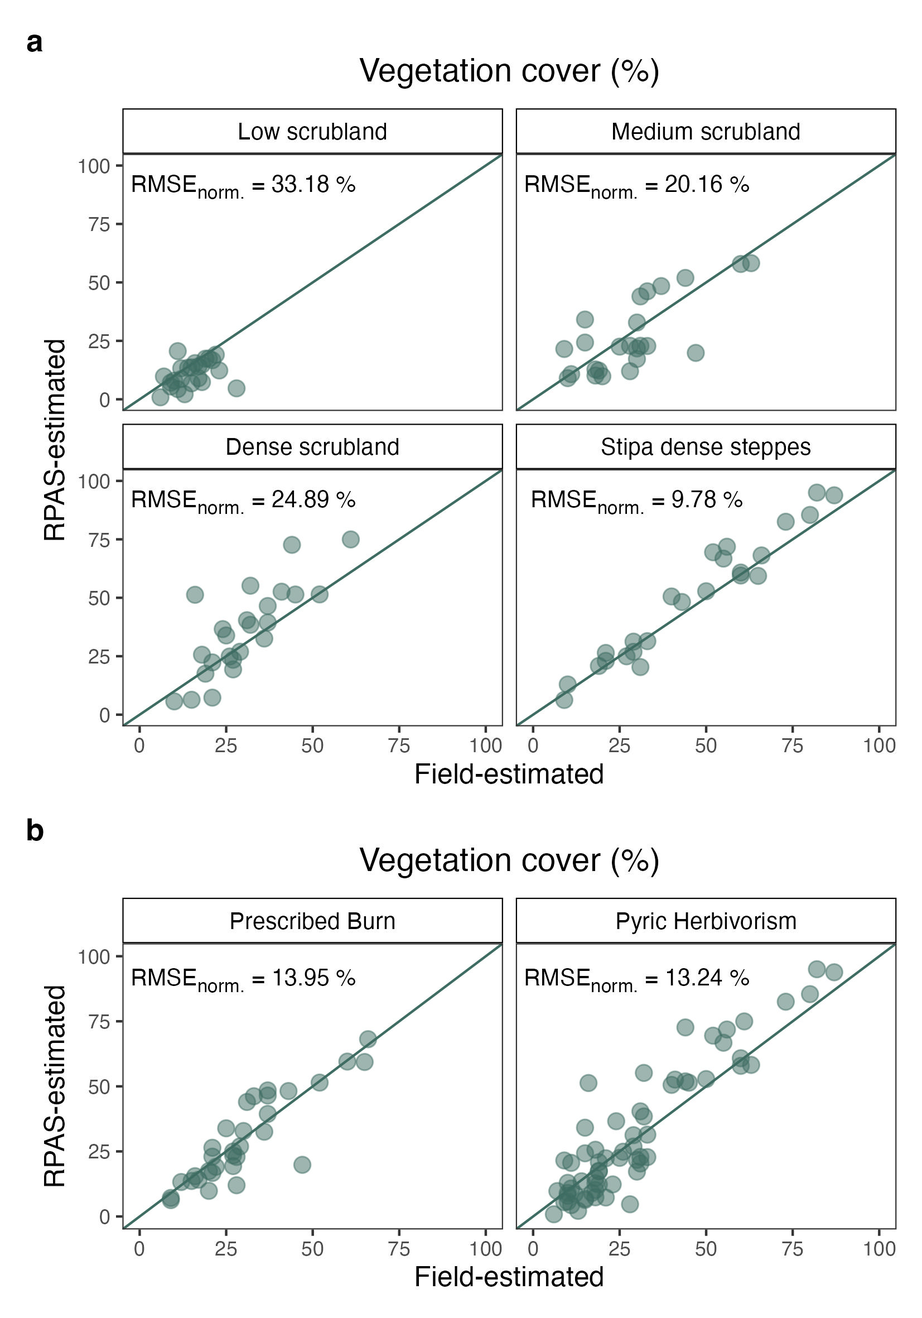
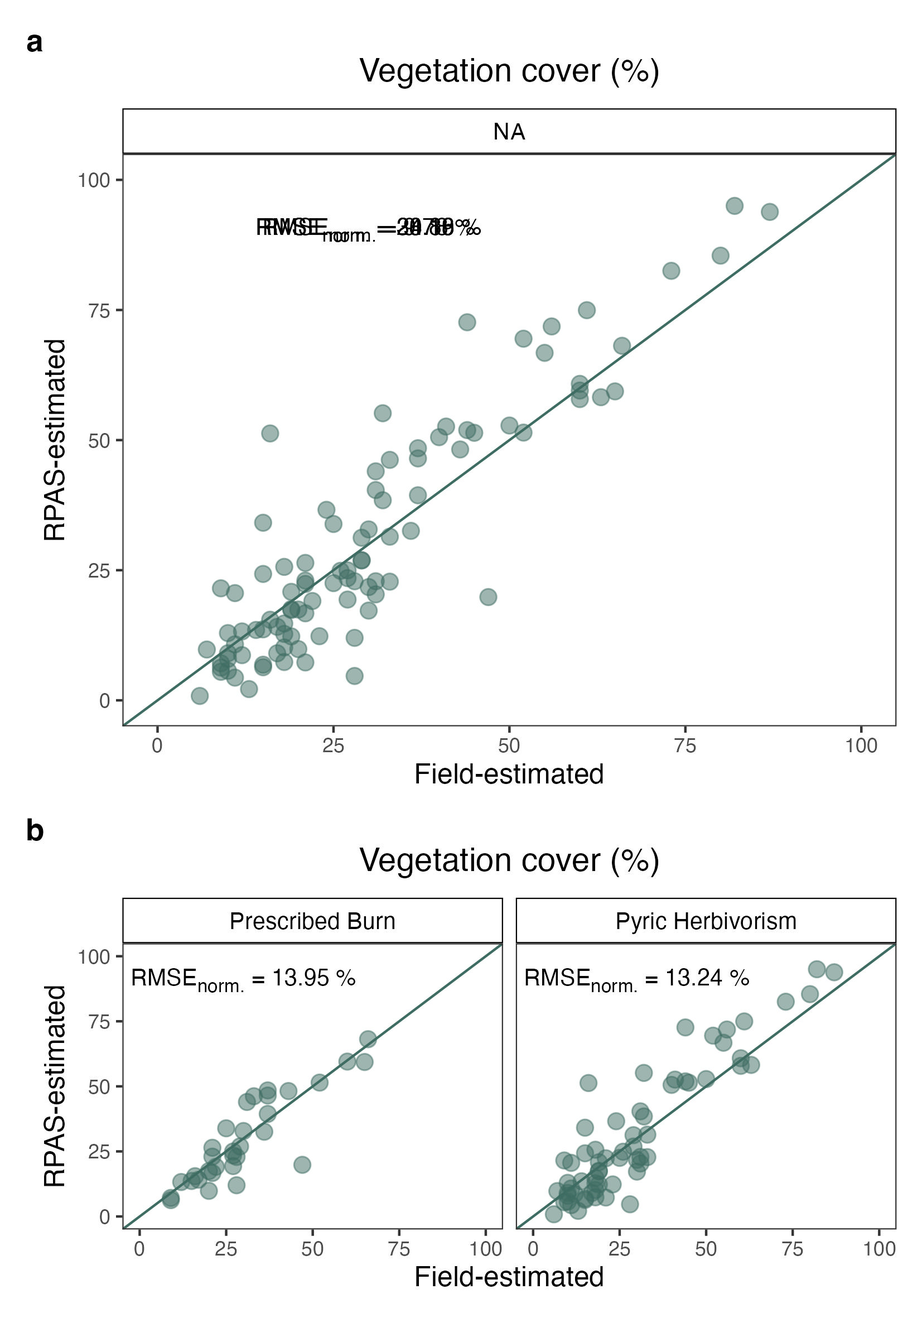
update plots

diff --git a/docs/prepare_data.html b/docs/prepare_data.html
@@ -224,8 +224,8 @@ code span.wa { color: #60a0b0; font-weight: bold; font-style: italic; } /* Warni
 </details>
 <div class="cell-output-display">
 
-<div id="htmlwidget-48e80b61807fcdd4de65" style="width:100%;height:auto;" class="datatables html-widget"></div>
-<script type="application/json" data-for="htmlwidget-48e80b61807fcdd4de65">{"x":{"filter":"none","vertical":false,"data":[["1","2","3","4","5","6","7","8","9","10","11","12","13","14","15","16","17","18","19","20","21","22","23","24","25","26","27","28","29","30","31","32","33","34","35","36","37","38","39","40","41","42","43","44","45","46","47","48","49","50","51","52","53","54","55","56","57","58","59","60","61","62","63","64","65","66","67","68","69","70","71","72","73","74","75","76","77","78","79","80","81","82","83","84","85","86","87","88","89","90","91","92","93","94","95","96"],["2021-05-19T00:00:00Z","2021-05-19T00:00:00Z","2021-05-19T00:00:00Z","2021-05-19T00:00:00Z","2021-05-19T00:00:00Z","2021-05-19T00:00:00Z","2021-05-19T00:00:00Z","2021-05-19T00:00:00Z","2021-05-19T00:00:00Z","2021-05-19T00:00:00Z","2021-05-19T00:00:00Z","2021-05-19T00:00:00Z","2021-05-19T00:00:00Z","2021-05-19T00:00:00Z","2021-05-19T00:00:00Z","2021-05-19T00:00:00Z","2021-05-19T00:00:00Z","2021-05-19T00:00:00Z","2021-05-19T00:00:00Z","2021-05-19T00:00:00Z","2021-05-19T00:00:00Z","2021-05-19T00:00:00Z","2021-05-19T00:00:00Z","2021-05-19T00:00:00Z","2021-05-19T00:00:00Z","2021-05-19T00:00:00Z","2021-05-19T00:00:00Z","2021-05-19T00:00:00Z","2021-05-19T00:00:00Z","2021-05-19T00:00:00Z","2021-05-19T00:00:00Z","2021-05-19T00:00:00Z","2021-05-19T00:00:00Z","2021-05-19T00:00:00Z","2021-05-19T00:00:00Z","2021-05-19T00:00:00Z","2021-05-19T00:00:00Z","2021-05-19T00:00:00Z","2021-05-19T00:00:00Z","2021-05-19T00:00:00Z","2021-05-19T00:00:00Z","2021-05-19T00:00:00Z","2021-05-19T00:00:00Z","2021-05-19T00:00:00Z","2021-05-19T00:00:00Z","2021-05-19T00:00:00Z","2021-05-19T00:00:00Z","2021-05-19T00:00:00Z","2021-05-19T00:00:00Z","2021-05-19T00:00:00Z","2021-05-19T00:00:00Z","2021-05-19T00:00:00Z","2021-05-19T00:00:00Z","2021-05-19T00:00:00Z","2021-05-19T00:00:00Z","2021-05-19T00:00:00Z","2021-05-19T00:00:00Z","2021-05-19T00:00:00Z","2021-05-19T00:00:00Z","2021-05-19T00:00:00Z","2021-05-19T00:00:00Z","2021-05-19T00:00:00Z","2021-05-19T00:00:00Z","2021-05-19T00:00:00Z","2021-05-19T00:00:00Z","2021-05-19T00:00:00Z","2021-05-19T00:00:00Z","2021-05-19T00:00:00Z","2021-05-19T00:00:00Z","2021-05-19T00:00:00Z","2021-05-19T00:00:00Z","2021-05-19T00:00:00Z","2021-05-19T00:00:00Z","2021-05-19T00:00:00Z","2021-05-19T00:00:00Z","2021-05-19T00:00:00Z","2021-05-19T00:00:00Z","2021-05-19T00:00:00Z","2021-05-19T00:00:00Z","2021-05-19T00:00:00Z","2021-05-19T00:00:00Z","2021-05-19T00:00:00Z","2021-05-19T00:00:00Z","2021-05-19T00:00:00Z","2021-05-19T00:00:00Z","2021-05-19T00:00:00Z","2021-05-19T00:00:00Z","2021-05-19T00:00:00Z","2021-05-19T00:00:00Z","2021-05-19T00:00:00Z","2021-05-19T00:00:00Z","2021-05-19T00:00:00Z","2021-05-19T00:00:00Z","2021-05-19T00:00:00Z","2021-05-19T00:00:00Z","2021-05-19T00:00:00Z"],["NP13Q1","NP13Q2","NP13Q3","NP13Q4","NP13Q5","NP13Q6","NP13Q7","NP13Q8","NP7Q1","NP7Q2","NP7Q3","NP7Q4","NP7Q5","NP7Q6","NP7Q7","NP7Q8","NP8Q1","NP8Q2","NP8Q3","NP8Q4","NP8Q5","NP8Q6","NP8Q7","NP8Q8","NP9Q1","NP9Q2","NP9Q3","NP9Q4","NP9Q5","NP9Q6","NP9Q7","NP9Q8","P11Q1","P11Q2","P11Q3","P11Q4","P11Q5","P11Q6","P11Q7","P11Q8","P12Q1","P12Q2","P12Q3","P12Q4","P12Q5","P12Q6","P12Q7","P12Q8","P14Q1","P14Q2","P14Q3","P14Q4","P14Q5","P14Q6","P14Q7","P14Q8","P4Q1","P4Q2","P4Q3","P4Q4","P4Q5","P4Q6","P4Q7","P4Q8","PR15Q1","PR15Q2","PR15Q3","PR15Q4","PR15Q5","PR15Q6","PR15Q7","PR15Q8","PR16Q1","PR16Q2","PR16Q3","PR16Q4","PR16Q5","PR16Q6","PR16Q7","PR16Q8","PR17Q1","PR17Q2","PR17Q3","PR17Q4","PR17Q5","PR17Q6","PR17Q7","PR17Q8","PR18Q1","PR18Q2","PR18Q3","PR18Q4","PR18Q5","PR18Q6","PR18Q7","PR18Q8"],[1,1,2,2,4,3,3,4,1,2,2,1,4,4,3,3,4,4,2,2,1,1,3,3,3,2,4,1,4,3,2,1,1,2,3,4,1,2,4,3,3,3,4,4,1,2,2,1,3,2,1,4,1,3,2,4,2,4,1,3,3,1,2,4,3,3,2,1,1,4,2,4,3,3,4,4,2,2,1,1,1,1,2,2,4,3,4,3,3,3,4,4,1,2,1,2],[20,22,30,20,36,66,60,37,12,31,28,17,27,29,9,21,27,52,47,28,9,15,21,65,43,37,37,16,25,27,33,21,7,15,10,18,28,31,61,29,31,40,21,26,11,60,63,19,73,15,9,44,18,19,44,32,33,31,17,87,55,18,18,41,52,60,30,14,15,32,25,10,80,82,21,15,19,9,23,12,10,6,10,18,45,29,19,33,50,56,24,16,13,30,11,11],[17.44,19.08,32.84,9.84,32.56,68.12,59.52,46.48,13.24,44,12,14.12,23.48,26.92,6.28,23,19.36,51.44,19.84,22.88,7.12,13.64,26.4,59.36,48.2,48.44,39.4,15.48,33.88,24.96,46.2,16.72,9.76,34.12,12.92,25.64,4.68,22.88,74.96,26.88,20.36,50.56,22.36,24.88,20.6,57.88,58.24,17.36,82.52,24.28,5.48,72.64,14.76,20.84,51.92,55.16,22.8,40.4,9.04,93.84,66.76,7.36,12.76,52.6,69.48,60.8,17.24,13.52,6.84,38.44,22.52,5.68,85.44,95,7.28,6.36,12.28,21.52,12.32,8.68,7.96,0.84,9.04,10.16,51.4,31.24,17.52,31.44,52.8,71.84,36.6,51.28,2.16,21.76,4.36,10.76],[-1.689193598,-1.367214515,-1.301930416,-1.021360326,-1.162510477,-0.42926565,-0.694463818,-1.65742875,-1.949022745,-1.490284274,-1.655341361,-1.955492681,-1.781598022,-0.967003883,-1.567814695,-0.589038948,-1.449010459,-0.544612422,-0.998677939,-1.272857819,-0.729899089,-1.447408388,-0.716273072,-0.769940277,-0.496852412,-1.123975652,-1.692500177,-1.835653325,-1.765371853,-0.930582004,-1.819569074,-1.462716876,-1.152760513,-1.558631986,-2.142028565,-1.051878843,-1.968114735,-0.951159731,-0.662197937,-1.479701337,-0.912091704,-1.52189382,-2.301521957,-1.556164249,-2.066283445,-0.820101352,-0.730030717,-1.92243983,-0.397993981,-1.71649872,-1.671057671,-1.380044864,-1.709734415,-1.194557083,-1.606172792,-1.929236088,-1.47362539,-1.150347937,-2.092721267,-0.557655181,-0.865464602,-1.619552639,-2.064163525,-1.196908034,-1.102197818,-0.60446738,-1.28828624,-2.231168651,-1.945040315,-1.556903303,-1.800063915,-2.133219035,-0.178720831,-0.405391458,-2.364276998,-2.225447328,-1.229920443,-2.522990022,-1.805537841,-1.195530795,-1.046547091,-0.815822047,-1.801641253,-0.883020016,-0.950279168,-0.539883666,-1.343425778,-0.353725099,-0.382335792,-0.374258297,-1.082343642,-2.029254035,-1.956842514,-1.587079924,-2.237593076,-1.306551137],[11,7,10,4,5,5,8,10,10,10,9,11,9,7,9,4,9,5,7,10,5,8,8,12,6,5,7,12,11,7,13,11,9,10,14,8,15,9,10,12,8,13,15,13,12,10,7,12,10,12,8,15,14,15,15,17,10,13,20,9,9,12,17,9,16,10,14,13,11,14,13,13,9,15,17,13,12,23,15,9,6,5,10,5,5,7,8,4,5,10,11,15,14,21,16,9],[6.75853,7.26292,21.90293,13.58083,4.19623,7.00261,8.3976,18.26796,12.26783,16.54607,9.60659,16.00978,14.42579,4.41814,17.12441,24.68117,21.20593,12.75371,5.14943,19.22652,15.5588,16.77761,9.69958,9.98621,6.84236,3.33678,15.68623,13.45387,19.25106,28.09895,30.82529,17.6116,24.39389,19.57165,24.43191,25.13164,12.54547,15.24008,30.55269,22.27713,21.8875,26.91578,22.80625,28.19897,29.64145,23.66002,23.13916,24.58791,23.39887,21.99804,23.6784,23.49466,22.75441,18.67039,24.36948,25.05923,20.70409,21.12263,21.30364,16.60535,19.11492,19.6202,15.81243,16.39336,34.27146,26.77098,30.14411,34.68411,26.95376,28.11761,25.09244,25.34467,10.39454,17.19698,14.42968,16.40337,4.8498,12.36696,11.72359,14.41119,31.29884,28.25184,31.80959,25.98298,34.77873,30.85988,30.41705,40.51976,15.92186,19.26535,29.41033,22.41317,33.48799,24.84428,20.77496,27.15471],["Prescribed Burn","Prescribed Burn","Prescribed Burn","Prescribed Burn","Prescribed Burn","Prescribed Burn","Prescribed Burn","Prescribed Burn","Prescribed Burn","Prescribed Burn","Prescribed Burn","Prescribed Burn","Prescribed Burn","Prescribed Burn","Prescribed Burn","Prescribed Burn","Prescribed Burn","Prescribed Burn","Prescribed Burn","Prescribed Burn","Prescribed Burn","Prescribed Burn","Prescribed Burn","Prescribed Burn","Prescribed Burn","Prescribed Burn","Prescribed Burn","Prescribed Burn","Prescribed Burn","Prescribed Burn","Prescribed Burn","Prescribed Burn","Pyric Herbivorism","Pyric Herbivorism","Pyric Herbivorism","Pyric Herbivorism","Pyric Herbivorism","Pyric Herbivorism","Pyric Herbivorism","Pyric Herbivorism","Pyric Herbivorism","Pyric Herbivorism","Pyric Herbivorism","Pyric Herbivorism","Pyric Herbivorism","Pyric Herbivorism","Pyric Herbivorism","Pyric Herbivorism","Pyric Herbivorism","Pyric Herbivorism","Pyric Herbivorism","Pyric Herbivorism","Pyric Herbivorism","Pyric Herbivorism","Pyric Herbivorism","Pyric Herbivorism","Pyric Herbivorism","Pyric Herbivorism","Pyric Herbivorism","Pyric Herbivorism","Pyric Herbivorism","Pyric Herbivorism","Pyric Herbivorism","Pyric Herbivorism","Pyric Herbivorism","Pyric Herbivorism","Pyric Herbivorism","Pyric Herbivorism","Pyric Herbivorism","Pyric Herbivorism","Pyric Herbivorism","Pyric Herbivorism","Pyric Herbivorism","Pyric Herbivorism","Pyric Herbivorism","Pyric Herbivorism","Pyric Herbivorism","Pyric Herbivorism","Pyric Herbivorism","Pyric Herbivorism","Pyric Herbivorism","Pyric Herbivorism","Pyric Herbivorism","Pyric Herbivorism","Pyric Herbivorism","Pyric Herbivorism","Pyric Herbivorism","Pyric Herbivorism","Pyric Herbivorism","Pyric Herbivorism","Pyric Herbivorism","Pyric Herbivorism","Pyric Herbivorism","Pyric Herbivorism","Pyric Herbivorism","Pyric Herbivorism"],["Low scrubland","Low scrubland","Medium scrubland","Medium scrubland","Dense scrubland","Stipa dense steppes","Stipa dense steppes","Dense scrubland","Low scrubland","Medium scrubland","Medium scrubland","Low scrubland","Dense scrubland","Dense scrubland","Stipa dense steppes","Stipa dense steppes","Dense scrubland","Dense scrubland","Medium scrubland","Medium scrubland","Low scrubland","Low scrubland","Stipa dense steppes","Stipa dense steppes","Stipa dense steppes","Medium scrubland","Dense scrubland","Low scrubland","Dense scrubland","Stipa dense steppes","Medium scrubland","Low scrubland","Low scrubland","Medium scrubland","Stipa dense steppes","Dense scrubland","Low scrubland","Medium scrubland","Dense scrubland","Stipa dense steppes","Stipa dense steppes","Stipa dense steppes","Dense scrubland","Dense scrubland","Low scrubland","Medium scrubland","Medium scrubland","Low scrubland","Stipa dense steppes","Medium scrubland","Low scrubland","Dense scrubland","Low scrubland","Stipa dense steppes","Medium scrubland","Dense scrubland","Medium scrubland","Dense scrubland","Low scrubland","Stipa dense steppes","Stipa dense steppes","Low scrubland","Medium scrubland","Dense scrubland","Stipa dense steppes","Stipa dense steppes","Medium scrubland","Low scrubland","Low scrubland","Dense scrubland","Medium scrubland","Dense scrubland","Stipa dense steppes","Stipa dense steppes","Dense scrubland","Dense scrubland","Medium scrubland","Medium scrubland","Low scrubland","Low scrubland","Low scrubland","Low scrubland","Medium scrubland","Medium scrubland","Dense scrubland","Stipa dense steppes","Dense scrubland","Stipa dense steppes","Stipa dense steppes","Stipa dense steppes","Dense scrubland","Dense scrubland","Low scrubland","Medium scrubland","Low scrubland","Medium scrubland"]],"container":"<table class=\"display\">\n  <thead>\n    <tr>\n      <th> <\/th>\n      <th>date<\/th>\n      <th>quadrat_name<\/th>\n      <th>cover_type_infoca<\/th>\n      <th>plant_coverage_field<\/th>\n      <th>plant_coverage_rpas<\/th>\n      <th>shannon<\/th>\n      <th>richness<\/th>\n      <th>slope<\/th>\n      <th>treatment<\/th>\n      <th>cover_type<\/th>\n    <\/tr>\n  <\/thead>\n<\/table>","options":{"columnDefs":[{"className":"dt-right","targets":[3,4,5,6,7,8]},{"orderable":false,"targets":0}],"order":[],"autoWidth":false,"orderClasses":false}},"evals":[],"jsHooks":[]}</script>
+<div id="htmlwidget-7ae2de36990fddf59a21" style="width:100%;height:auto;" class="datatables html-widget"></div>
+<script type="application/json" data-for="htmlwidget-7ae2de36990fddf59a21">{"x":{"filter":"none","vertical":false,"data":[["1","2","3","4","5","6","7","8","9","10","11","12","13","14","15","16","17","18","19","20","21","22","23","24","25","26","27","28","29","30","31","32","33","34","35","36","37","38","39","40","41","42","43","44","45","46","47","48","49","50","51","52","53","54","55","56","57","58","59","60","61","62","63","64","65","66","67","68","69","70","71","72","73","74","75","76","77","78","79","80","81","82","83","84","85","86","87","88","89","90","91","92","93","94","95","96"],["2021-05-19T00:00:00Z","2021-05-19T00:00:00Z","2021-05-19T00:00:00Z","2021-05-19T00:00:00Z","2021-05-19T00:00:00Z","2021-05-19T00:00:00Z","2021-05-19T00:00:00Z","2021-05-19T00:00:00Z","2021-05-19T00:00:00Z","2021-05-19T00:00:00Z","2021-05-19T00:00:00Z","2021-05-19T00:00:00Z","2021-05-19T00:00:00Z","2021-05-19T00:00:00Z","2021-05-19T00:00:00Z","2021-05-19T00:00:00Z","2021-05-19T00:00:00Z","2021-05-19T00:00:00Z","2021-05-19T00:00:00Z","2021-05-19T00:00:00Z","2021-05-19T00:00:00Z","2021-05-19T00:00:00Z","2021-05-19T00:00:00Z","2021-05-19T00:00:00Z","2021-05-19T00:00:00Z","2021-05-19T00:00:00Z","2021-05-19T00:00:00Z","2021-05-19T00:00:00Z","2021-05-19T00:00:00Z","2021-05-19T00:00:00Z","2021-05-19T00:00:00Z","2021-05-19T00:00:00Z","2021-05-19T00:00:00Z","2021-05-19T00:00:00Z","2021-05-19T00:00:00Z","2021-05-19T00:00:00Z","2021-05-19T00:00:00Z","2021-05-19T00:00:00Z","2021-05-19T00:00:00Z","2021-05-19T00:00:00Z","2021-05-19T00:00:00Z","2021-05-19T00:00:00Z","2021-05-19T00:00:00Z","2021-05-19T00:00:00Z","2021-05-19T00:00:00Z","2021-05-19T00:00:00Z","2021-05-19T00:00:00Z","2021-05-19T00:00:00Z","2021-05-19T00:00:00Z","2021-05-19T00:00:00Z","2021-05-19T00:00:00Z","2021-05-19T00:00:00Z","2021-05-19T00:00:00Z","2021-05-19T00:00:00Z","2021-05-19T00:00:00Z","2021-05-19T00:00:00Z","2021-05-19T00:00:00Z","2021-05-19T00:00:00Z","2021-05-19T00:00:00Z","2021-05-19T00:00:00Z","2021-05-19T00:00:00Z","2021-05-19T00:00:00Z","2021-05-19T00:00:00Z","2021-05-19T00:00:00Z","2021-05-19T00:00:00Z","2021-05-19T00:00:00Z","2021-05-19T00:00:00Z","2021-05-19T00:00:00Z","2021-05-19T00:00:00Z","2021-05-19T00:00:00Z","2021-05-19T00:00:00Z","2021-05-19T00:00:00Z","2021-05-19T00:00:00Z","2021-05-19T00:00:00Z","2021-05-19T00:00:00Z","2021-05-19T00:00:00Z","2021-05-19T00:00:00Z","2021-05-19T00:00:00Z","2021-05-19T00:00:00Z","2021-05-19T00:00:00Z","2021-05-19T00:00:00Z","2021-05-19T00:00:00Z","2021-05-19T00:00:00Z","2021-05-19T00:00:00Z","2021-05-19T00:00:00Z","2021-05-19T00:00:00Z","2021-05-19T00:00:00Z","2021-05-19T00:00:00Z","2021-05-19T00:00:00Z","2021-05-19T00:00:00Z","2021-05-19T00:00:00Z","2021-05-19T00:00:00Z","2021-05-19T00:00:00Z","2021-05-19T00:00:00Z","2021-05-19T00:00:00Z","2021-05-19T00:00:00Z"],["NP13Q1","NP13Q2","NP13Q3","NP13Q4","NP13Q5","NP13Q6","NP13Q7","NP13Q8","NP7Q1","NP7Q2","NP7Q3","NP7Q4","NP7Q5","NP7Q6","NP7Q7","NP7Q8","NP8Q1","NP8Q2","NP8Q3","NP8Q4","NP8Q5","NP8Q6","NP8Q7","NP8Q8","NP9Q1","NP9Q2","NP9Q3","NP9Q4","NP9Q5","NP9Q6","NP9Q7","NP9Q8","P11Q1","P11Q2","P11Q3","P11Q4","P11Q5","P11Q6","P11Q7","P11Q8","P12Q1","P12Q2","P12Q3","P12Q4","P12Q5","P12Q6","P12Q7","P12Q8","P14Q1","P14Q2","P14Q3","P14Q4","P14Q5","P14Q6","P14Q7","P14Q8","P4Q1","P4Q2","P4Q3","P4Q4","P4Q5","P4Q6","P4Q7","P4Q8","PR15Q1","PR15Q2","PR15Q3","PR15Q4","PR15Q5","PR15Q6","PR15Q7","PR15Q8","PR16Q1","PR16Q2","PR16Q3","PR16Q4","PR16Q5","PR16Q6","PR16Q7","PR16Q8","PR17Q1","PR17Q2","PR17Q3","PR17Q4","PR17Q5","PR17Q6","PR17Q7","PR17Q8","PR18Q1","PR18Q2","PR18Q3","PR18Q4","PR18Q5","PR18Q6","PR18Q7","PR18Q8"],[1,1,2,2,4,3,3,4,1,2,2,1,4,4,3,3,4,4,2,2,1,1,3,3,3,2,4,1,4,3,2,1,1,2,3,4,1,2,4,3,3,3,4,4,1,2,2,1,3,2,1,4,1,3,2,4,2,4,1,3,3,1,2,4,3,3,2,1,1,4,2,4,3,3,4,4,2,2,1,1,1,1,2,2,4,3,4,3,3,3,4,4,1,2,1,2],[20,22,30,20,36,66,60,37,12,31,28,17,27,29,9,21,27,52,47,28,9,15,21,65,43,37,37,16,25,27,33,21,7,15,10,18,28,31,61,29,31,40,21,26,11,60,63,19,73,15,9,44,18,19,44,32,33,31,17,87,55,18,18,41,52,60,30,14,15,32,25,10,80,82,21,15,19,9,23,12,10,6,10,18,45,29,19,33,50,56,24,16,13,30,11,11],[17.44,19.08,32.84,9.84,32.56,68.12,59.52,46.48,13.24,44,12,14.12,23.48,26.92,6.28,23,19.36,51.44,19.84,22.88,7.12,13.64,26.4,59.36,48.2,48.44,39.4,15.48,33.88,24.96,46.2,16.72,9.76,34.12,12.92,25.64,4.68,22.88,74.96,26.88,20.36,50.56,22.36,24.88,20.6,57.88,58.24,17.36,82.52,24.28,5.48,72.64,14.76,20.84,51.92,55.16,22.8,40.4,9.04,93.84,66.76,7.36,12.76,52.6,69.48,60.8,17.24,13.52,6.84,38.44,22.52,5.68,85.44,95,7.28,6.36,12.28,21.52,12.32,8.68,7.96,0.84,9.04,10.16,51.4,31.24,17.52,31.44,52.8,71.84,36.6,51.28,2.16,21.76,4.36,10.76],[-1.689193598,-1.367214515,-1.301930416,-1.021360326,-1.162510477,-0.42926565,-0.694463818,-1.65742875,-1.949022745,-1.490284274,-1.655341361,-1.955492681,-1.781598022,-0.967003883,-1.567814695,-0.589038948,-1.449010459,-0.544612422,-0.998677939,-1.272857819,-0.729899089,-1.447408388,-0.716273072,-0.769940277,-0.496852412,-1.123975652,-1.692500177,-1.835653325,-1.765371853,-0.930582004,-1.819569074,-1.462716876,-1.152760513,-1.558631986,-2.142028565,-1.051878843,-1.968114735,-0.951159731,-0.662197937,-1.479701337,-0.912091704,-1.52189382,-2.301521957,-1.556164249,-2.066283445,-0.820101352,-0.730030717,-1.92243983,-0.397993981,-1.71649872,-1.671057671,-1.380044864,-1.709734415,-1.194557083,-1.606172792,-1.929236088,-1.47362539,-1.150347937,-2.092721267,-0.557655181,-0.865464602,-1.619552639,-2.064163525,-1.196908034,-1.102197818,-0.60446738,-1.28828624,-2.231168651,-1.945040315,-1.556903303,-1.800063915,-2.133219035,-0.178720831,-0.405391458,-2.364276998,-2.225447328,-1.229920443,-2.522990022,-1.805537841,-1.195530795,-1.046547091,-0.815822047,-1.801641253,-0.883020016,-0.950279168,-0.539883666,-1.343425778,-0.353725099,-0.382335792,-0.374258297,-1.082343642,-2.029254035,-1.956842514,-1.587079924,-2.237593076,-1.306551137],[11,7,10,4,5,5,8,10,10,10,9,11,9,7,9,4,9,5,7,10,5,8,8,12,6,5,7,12,11,7,13,11,9,10,14,8,15,9,10,12,8,13,15,13,12,10,7,12,10,12,8,15,14,15,15,17,10,13,20,9,9,12,17,9,16,10,14,13,11,14,13,13,9,15,17,13,12,23,15,9,6,5,10,5,5,7,8,4,5,10,11,15,14,21,16,9],[6.75853,7.26292,21.90293,13.58083,4.19623,7.00261,8.3976,18.26796,12.26783,16.54607,9.60659,16.00978,14.42579,4.41814,17.12441,24.68117,21.20593,12.75371,5.14943,19.22652,15.5588,16.77761,9.69958,9.98621,6.84236,3.33678,15.68623,13.45387,19.25106,28.09895,30.82529,17.6116,24.39389,19.57165,24.43191,25.13164,12.54547,15.24008,30.55269,22.27713,21.8875,26.91578,22.80625,28.19897,29.64145,23.66002,23.13916,24.58791,23.39887,21.99804,23.6784,23.49466,22.75441,18.67039,24.36948,25.05923,20.70409,21.12263,21.30364,16.60535,19.11492,19.6202,15.81243,16.39336,34.27146,26.77098,30.14411,34.68411,26.95376,28.11761,25.09244,25.34467,10.39454,17.19698,14.42968,16.40337,4.8498,12.36696,11.72359,14.41119,31.29884,28.25184,31.80959,25.98298,34.77873,30.85988,30.41705,40.51976,15.92186,19.26535,29.41033,22.41317,33.48799,24.84428,20.77496,27.15471],["Prescribed Burn","Prescribed Burn","Prescribed Burn","Prescribed Burn","Prescribed Burn","Prescribed Burn","Prescribed Burn","Prescribed Burn","Prescribed Burn","Prescribed Burn","Prescribed Burn","Prescribed Burn","Prescribed Burn","Prescribed Burn","Prescribed Burn","Prescribed Burn","Prescribed Burn","Prescribed Burn","Prescribed Burn","Prescribed Burn","Prescribed Burn","Prescribed Burn","Prescribed Burn","Prescribed Burn","Prescribed Burn","Prescribed Burn","Prescribed Burn","Prescribed Burn","Prescribed Burn","Prescribed Burn","Prescribed Burn","Prescribed Burn","Pyric Herbivorism","Pyric Herbivorism","Pyric Herbivorism","Pyric Herbivorism","Pyric Herbivorism","Pyric Herbivorism","Pyric Herbivorism","Pyric Herbivorism","Pyric Herbivorism","Pyric Herbivorism","Pyric Herbivorism","Pyric Herbivorism","Pyric Herbivorism","Pyric Herbivorism","Pyric Herbivorism","Pyric Herbivorism","Pyric Herbivorism","Pyric Herbivorism","Pyric Herbivorism","Pyric Herbivorism","Pyric Herbivorism","Pyric Herbivorism","Pyric Herbivorism","Pyric Herbivorism","Pyric Herbivorism","Pyric Herbivorism","Pyric Herbivorism","Pyric Herbivorism","Pyric Herbivorism","Pyric Herbivorism","Pyric Herbivorism","Pyric Herbivorism","Pyric Herbivorism","Pyric Herbivorism","Pyric Herbivorism","Pyric Herbivorism","Pyric Herbivorism","Pyric Herbivorism","Pyric Herbivorism","Pyric Herbivorism","Pyric Herbivorism","Pyric Herbivorism","Pyric Herbivorism","Pyric Herbivorism","Pyric Herbivorism","Pyric Herbivorism","Pyric Herbivorism","Pyric Herbivorism","Pyric Herbivorism","Pyric Herbivorism","Pyric Herbivorism","Pyric Herbivorism","Pyric Herbivorism","Pyric Herbivorism","Pyric Herbivorism","Pyric Herbivorism","Pyric Herbivorism","Pyric Herbivorism","Pyric Herbivorism","Pyric Herbivorism","Pyric Herbivorism","Pyric Herbivorism","Pyric Herbivorism","Pyric Herbivorism"],["Low-cover shrubland","Low-cover shrubland","Medium-cover shrubland","Medium-cover shrubland","High-cover shrubland","High-cover alfa grass steppe","High-cover alfa grass steppe","High-cover shrubland","Low-cover shrubland","Medium-cover shrubland","Medium-cover shrubland","Low-cover shrubland","High-cover shrubland","High-cover shrubland","High-cover alfa grass steppe","High-cover alfa grass steppe","High-cover shrubland","High-cover shrubland","Medium-cover shrubland","Medium-cover shrubland","Low-cover shrubland","Low-cover shrubland","High-cover alfa grass steppe","High-cover alfa grass steppe","High-cover alfa grass steppe","Medium-cover shrubland","High-cover shrubland","Low-cover shrubland","High-cover shrubland","High-cover alfa grass steppe","Medium-cover shrubland","Low-cover shrubland","Low-cover shrubland","Medium-cover shrubland","High-cover alfa grass steppe","High-cover shrubland","Low-cover shrubland","Medium-cover shrubland","High-cover shrubland","High-cover alfa grass steppe","High-cover alfa grass steppe","High-cover alfa grass steppe","High-cover shrubland","High-cover shrubland","Low-cover shrubland","Medium-cover shrubland","Medium-cover shrubland","Low-cover shrubland","High-cover alfa grass steppe","Medium-cover shrubland","Low-cover shrubland","High-cover shrubland","Low-cover shrubland","High-cover alfa grass steppe","Medium-cover shrubland","High-cover shrubland","Medium-cover shrubland","High-cover shrubland","Low-cover shrubland","High-cover alfa grass steppe","High-cover alfa grass steppe","Low-cover shrubland","Medium-cover shrubland","High-cover shrubland","High-cover alfa grass steppe","High-cover alfa grass steppe","Medium-cover shrubland","Low-cover shrubland","Low-cover shrubland","High-cover shrubland","Medium-cover shrubland","High-cover shrubland","High-cover alfa grass steppe","High-cover alfa grass steppe","High-cover shrubland","High-cover shrubland","Medium-cover shrubland","Medium-cover shrubland","Low-cover shrubland","Low-cover shrubland","Low-cover shrubland","Low-cover shrubland","Medium-cover shrubland","Medium-cover shrubland","High-cover shrubland","High-cover alfa grass steppe","High-cover shrubland","High-cover alfa grass steppe","High-cover alfa grass steppe","High-cover alfa grass steppe","High-cover shrubland","High-cover shrubland","Low-cover shrubland","Medium-cover shrubland","Low-cover shrubland","Medium-cover shrubland"]],"container":"<table class=\"display\">\n  <thead>\n    <tr>\n      <th> <\/th>\n      <th>date<\/th>\n      <th>quadrat_name<\/th>\n      <th>cover_type_infoca<\/th>\n      <th>plant_coverage_field<\/th>\n      <th>plant_coverage_rpas<\/th>\n      <th>shannon<\/th>\n      <th>richness<\/th>\n      <th>slope<\/th>\n      <th>treatment<\/th>\n      <th>cover_type<\/th>\n    <\/tr>\n  <\/thead>\n<\/table>","options":{"columnDefs":[{"className":"dt-right","targets":[3,4,5,6,7,8]},{"orderable":false,"targets":0}],"order":[],"autoWidth":false,"orderClasses":false}},"evals":[],"jsHooks":[]}</script>
 </div>
 </div>
 <div class="cell">

diff --git a/docs/analysis.html b/docs/analysis.html
@@ -474,32 +474,32 @@ code span.wa { color: #60a0b0; font-weight: bold; font-style: italic; } /* Warni
  </thead>
 <tbody>
   <tr>
-   <td style="text-align:left;"> Dense scrubland </td>
+   <td style="text-align:left;"> High-cover alfa grass steppe </td>
+   <td style="text-align:right;"> 7.63 </td>
+   <td style="text-align:right;"> 9 </td>
+   <td style="text-align:right;"> 87 </td>
+   <td style="text-align:right;"> 9.78 </td>
+  </tr>
+  <tr>
+   <td style="text-align:left;"> High-cover shrubland </td>
    <td style="text-align:right;"> 12.69 </td>
    <td style="text-align:right;"> 10 </td>
    <td style="text-align:right;"> 61 </td>
    <td style="text-align:right;"> 24.89 </td>
   </tr>
   <tr>
-   <td style="text-align:left;"> Low scrubland </td>
+   <td style="text-align:left;"> Low-cover shrubland </td>
    <td style="text-align:right;"> 7.30 </td>
    <td style="text-align:right;"> 6 </td>
    <td style="text-align:right;"> 28 </td>
    <td style="text-align:right;"> 33.18 </td>
   </tr>
   <tr>
-   <td style="text-align:left;"> Medium scrubland </td>
+   <td style="text-align:left;"> Medium-cover shrubland </td>
    <td style="text-align:right;"> 10.89 </td>
    <td style="text-align:right;"> 9 </td>
    <td style="text-align:right;"> 63 </td>
    <td style="text-align:right;"> 20.16 </td>
-  </tr>
-  <tr>
-   <td style="text-align:left;"> Stipa dense steppes </td>
-   <td style="text-align:right;"> 7.63 </td>
-   <td style="text-align:right;"> 9 </td>
-   <td style="text-align:right;"> 87 </td>
-   <td style="text-align:right;"> 9.78 </td>
   </tr>
 </tbody>
 </table>

diff --git a/docs/index.html b/docs/index.html
@@ -202,7 +202,7 @@ code span.wa { color: #60a0b0; font-weight: bold; font-style: italic; } /* Warni
 
 </header>
 
-<p><a href="https://github.com/serpam/rpasveg_alcontar/commits/master"><img src="https://img.shields.io/badge/last%20change-2022--09--29-brightgreen.svg" class="img-fluid"></a> <a href="https://cran.r-project.org/"><img src="https://img.shields.io/badge/R%3E%3D-4.2.1-brightgreen.svg" class="img-fluid" alt="minimal R version"></a> <a href="http://choosealicense.com/licenses/mit/"><img src="https://img.shields.io/github/license/mashape/apistatus.svg" class="img-fluid" alt="Licence"></a></p>
+<p><a href="https://github.com/serpam/rpasveg_alcontar/commits/master"><img src="https://img.shields.io/badge/last%20change-2022--09--30-brightgreen.svg" class="img-fluid"></a> <a href="https://cran.r-project.org/"><img src="https://img.shields.io/badge/R%3E%3D-4.2.1-brightgreen.svg" class="img-fluid" alt="minimal R version"></a> <a href="http://choosealicense.com/licenses/mit/"><img src="https://img.shields.io/github/license/mashape/apistatus.svg" class="img-fluid" alt="Licence"></a></p>
 <p>This repository contains all information and results for the paper <em>Vegetation cover estimation in semi-arid shrublands after prescribed burning. Field-ground and UAV comparison</em>.</p>
 <p>The paper have been submitted to <em>Drones</em> by Pérez-Luque AJ; Ramos Font ME; Tognetti Barbieri M; Tarragona C; Calvo, G. and Robles Cruz AB.</p>
 <section id="acknowledgements" class="level2">
